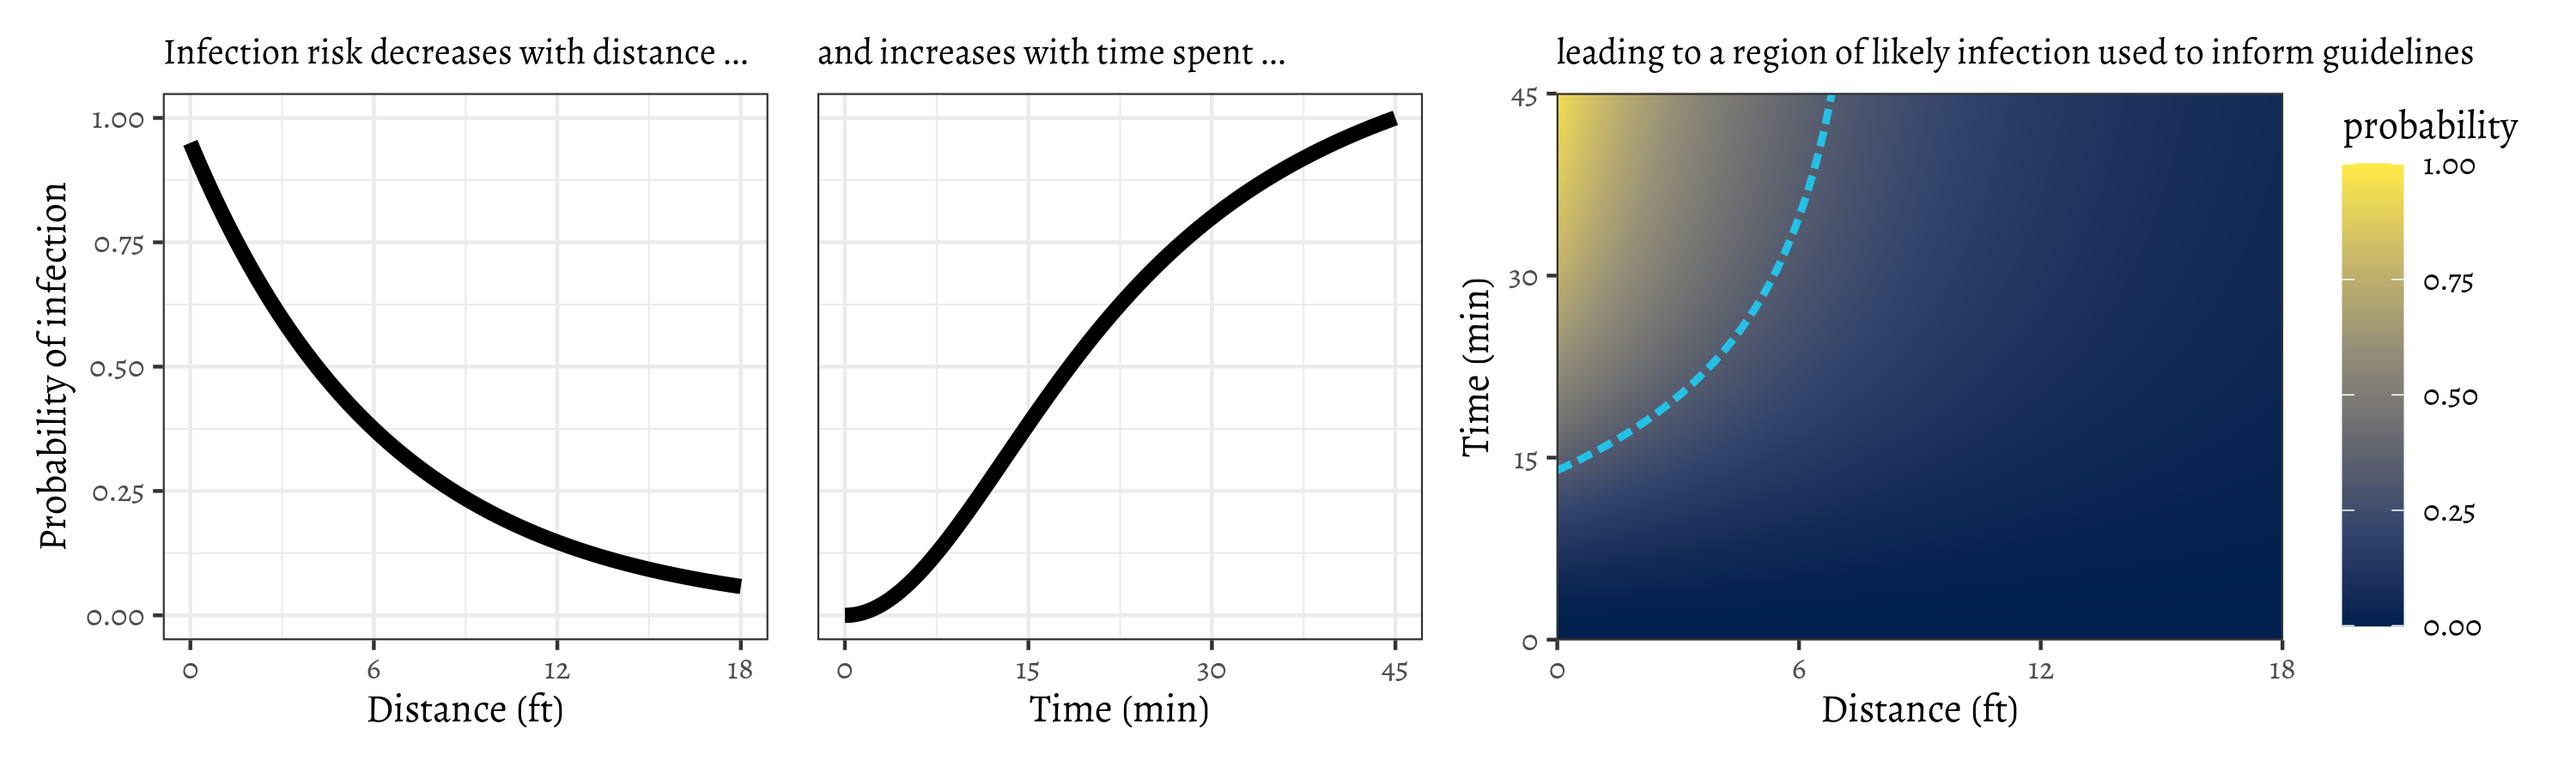
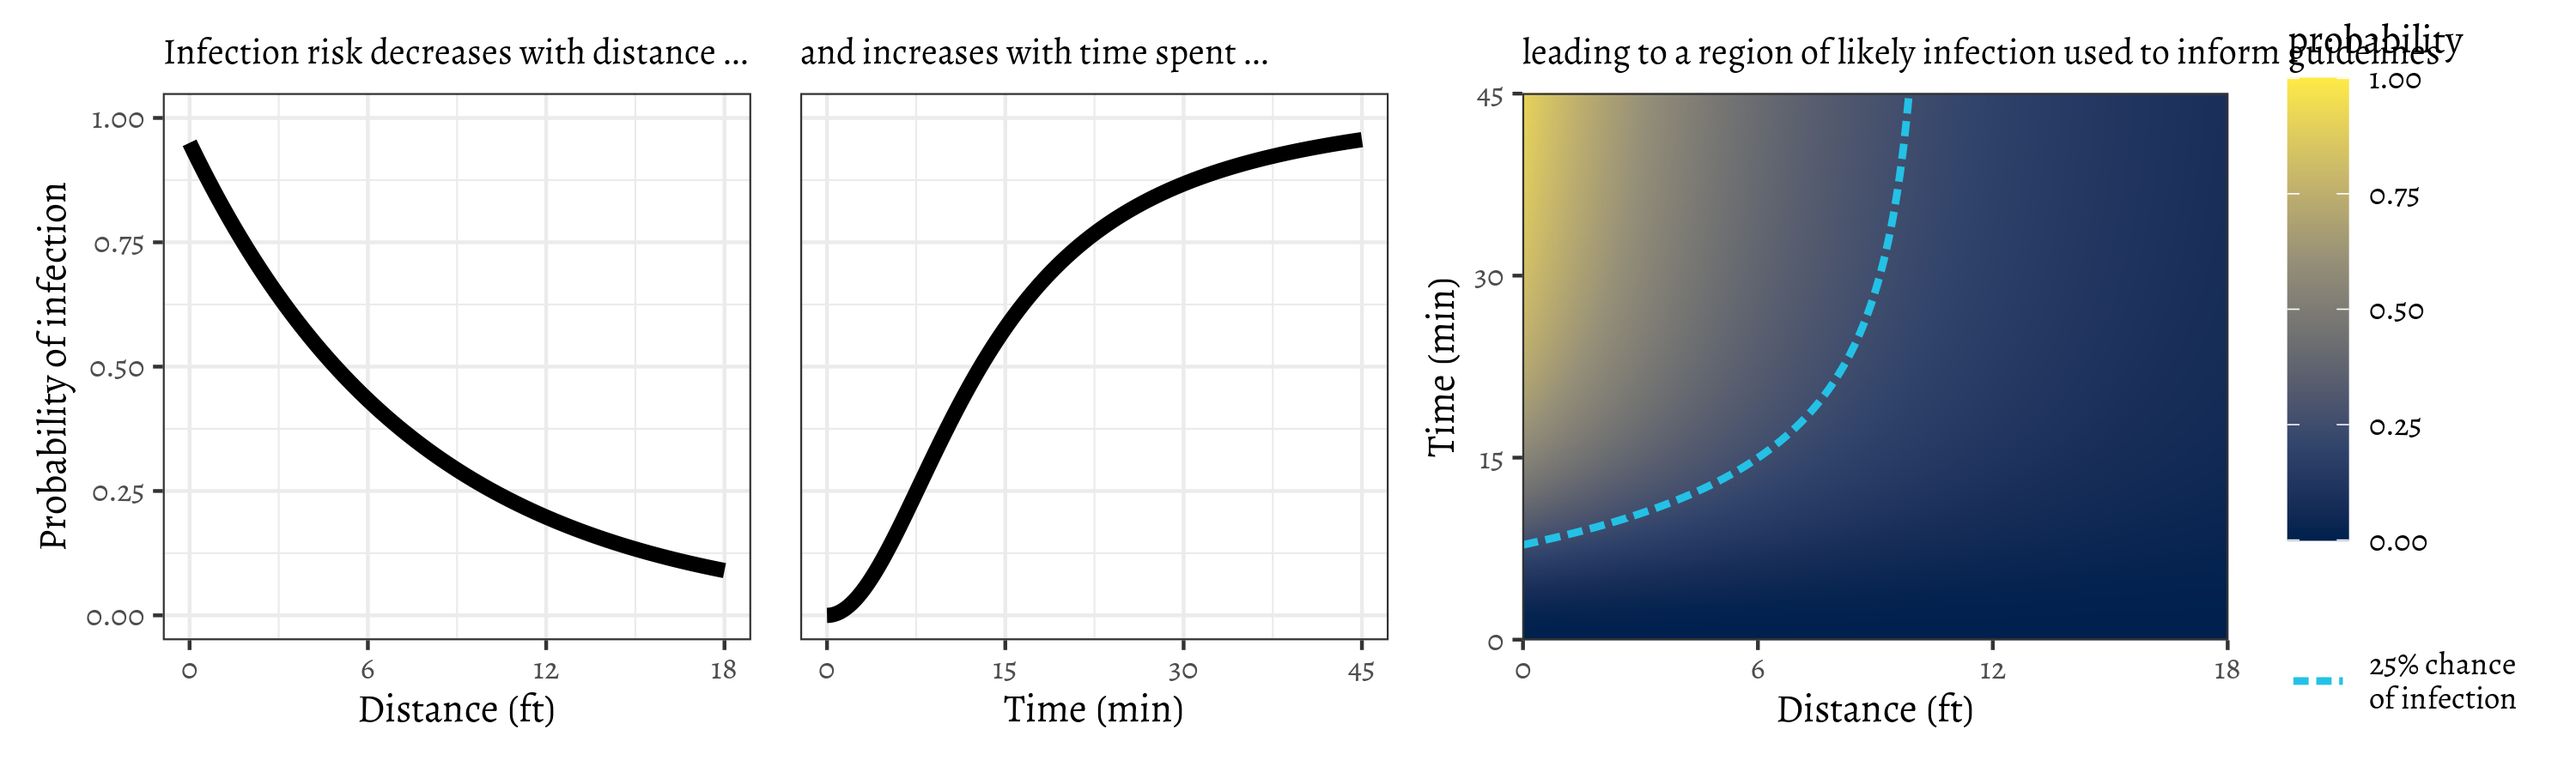
Marta Michalska-Smith's suggested improvements; updated post date

diff --git a/_posts/2021-09-14-Vaccination_Strategy.md b/_posts/2021-09-14-Vaccination_Strategy.md
@@ -2,14 +2,14 @@
 layout: post
 title: "Why vaccination strategy is not as simple as it seems"
 author: "Matthew J. Michalska-Smith"
-date: "2021-09-10"
+date: "2021-09-14"
 categories: current_events methods
 ---
 
 When vaccination just started getting underway in the U.S., many people were confused and angered at
 the fact that many localities were pursuing vaccination strategies that didn't just boil down to
 vaccinating the most vulnerable. On the other hand, there was a significant movement to vaccinate
-front-line workers that often cited equity and racial justice as motivations. What didn't seem to
+front-line workers which often cited equity and racial justice as motivations. What didn't seem to
 make the news as often is the mathematics that make this a reasonable alternative to consider.
 
 <!--more-->
@@ -51,12 +51,12 @@ sidenote-number"></label></sup><input type="checkbox" id="concept" class="margin
 class="sidenote">That is, figure not meant to represent actual data, but rather to
 help us think about a problem</span> of what these guidelines are trying to capture:
 
-![](/Images/blog_figures/vaccination_strategy/risk_distribution.png)
+[![](/Images/blog_figures/vaccination_strategy/risk_distribution.png)](/Images/blog_figures/vaccination_strategy/risk_distribution.png)
 
 Note that there is some probability of being infected in any given moment that depends on the
 distance you are from an infectious person. Similarly, the longer you are near that person, the more
 likely you are to get infected yourself. The guideline is a way of simplifying the message that, for
-example, you have a 1 in 3 chance of being infected by the time you have spent 15 minutes within 6
+example, you have a 1 in 4 chance of being infected by the time you have spent 15 minutes within 6
 feet of an infectious person (the upper-left region of the heatmap inside the blue curve).
 
 <label for="netfig" class="margin-toggle">&#8853;</label><input type="checkbox"
@@ -74,32 +74,30 @@ person's job involves a risky behavior in addition to a large number of interper
 (consider, for example, dentists, whose work involves increase exposure to aerosolized particles
 *and* interacting with many people in close contact and for extended periods of time).
 
-## An alternative to vaccinating by health status
+## An alternative: vaccinating to reduce disease spread
 
 So, how do we operationalize this network perspective? Put simply, a network view of vaccination
 suggests we should additionally consider both **exposure risk** (the risk of being infected) and
-**spread risk** (the risk of passing the pathogen along to others).
+**spread risk** (the risk of passing the pathogen along to others)<sup><label for="vaxgame"
+class="margin-toggle sidenote-number"></label></sup><input type="checkbox" id="vaxgame"
+class="margin-toggle" /><span class="sidenote">For a fun, interactive exploration of this idea,
+check out [this game](https://vax.herokuapp.com/). In it, you have a limited number of vaccines to
+distribute amongst a population to minimize the total epidemic size. It doesn't consider
+differential vulnerability, but does a good job of demonstrating the importance of contact network
+structure on the spread of disease</span>.
 
-### Countervailing consideration 1: exposure risk
-
-Thinking about differential risk of exposure across the population is complicated because it depends
-on many interacting variables, such as the likelihood of a person interacting with a sick person (note
-this depends both on the person's interpersonal interactions as well as the prevalence of disease in
-the population), the personal behavior of both people involved in the interaction, and even
-environmental features such as airflow. A person who largely stays home and minimizes their contact
-with others has a low risk of being infected by others, whereas a dentist (as mentioned above) has
-a much higher risk.
-
-### Countervailing consideration 2: spread risk
-
-A second, related, consideration is how each individual contributes to the overall risk of a disease
-spreading through a population. For this, we have to consider how each person fits within the wider
-social contact network along which communicable diseases spread. In many ways, this consideration
-overlaps with exposure risk: someone with few interpersonal interactions is unlikely to contribute
-to further disease spread even if they do happen to get sick. Yet, there are also situations where
-these become decoupled. A waiter, delivery person, or teacher, on the other hand, has both a higher
-likelihood of being infected **and of passing that infection along to others** as a result of their
-position within the contact network.
+Thinking about differential risk of exposure and spread across the population is complicated because
+it depends on many interacting variables, such as the prevalence of disease within the population,
+the personal behavior of people when they are interacting with one another, and even environmental
+features such as airflow. The factor that we are focusing on here for the sake of vaccine
+distribution, is how each person fits within the wider social contact network: a person who largely
+stays home and minimizes their contact with others has a low risk of being infected and is unlikely
+to contribute to further disease spread even if they do happen to get sick; a waiter, delivery
+person, or teacher, on the other hand, has both a higher likelihood of being infected *and of
+passing that infection along to others* as a result of their position within the contact network.
+Thus, it might make sense to prioritize these "high risk" people for vaccination, reasoning that
+reduced disease spread might result in lower morbidity and mortality in the population as a
+whole.
 
 ## But which is the better course?
 
@@ -114,25 +112,38 @@ choice, how should we be administering vaccinations in response to COVID-19?
 A recent study<sup><label for="science" class="margin-toggle sidenote-number"></label></sup><input
 type="checkbox" id="science" class="margin-toggle" /><span class="sidenote">[Bubar, et al. *Science*
 2021](https://www.science.org/doi/full/10.1126/science.abe6959)</span> looking into this question
-found that the approach of vaccinating the more vulnerable is better if your goal is to minimize
-deaths<sup><label for="cases" class="margin-toggle sidenote-number"></label></sup><input
-type="checkbox" id="cases" class="margin-toggle" /><span class="sidenote">In contrast, targeting
-younger people (who both make up a larger fraction of the population and are more likely to interact
-with others) has a greater effect on reducing the overall case-burden</span>.
-
-<label for="figinterp" class="margin-toggle sidenote-number"></label><input type="checkbox"
-class="margin-toggle" id="figinterp"/><span class="marginnote">Note that the largest reduction in
-deaths (highest curve on the right) corresponds to preferentially vaccinating the elderly.</span>
-
-<figure class="fullwidth">
-  <img style="max-width:750px; width:100%;" src="/Images/blog_figures/vaccination_strategy/modified_fig.png"/>
-  <figcaption>Modified from Figure 1 of <a href="https://www.science.org/doi/full/10.1126/science.abe6959">Bubar, et al. 2021</a>.</figcaption>
-</figure>
+for COVID-19 found that the approach of vaccinating the more vulnerable is better if your goal is to
+minimize deaths.
 
 Some subset of readers are at this point exclaiming that "of course! this was obviously going to be
 the result," and are probably wondering why they've wasted their time reading this whole
 post.<sup><label for="thanks" class="margin-toggle sidenote-number"></label></sup><input
 type="checkbox" id="thanks" class="margin-toggle" /><span class="sidenote">THANK YOU!, by the way <i
 class="fal fa-smile-beam"></i></span> It is important to remember that this didn't have to be the
-case, and indeed might not be the case for other diseases. Intuitions are not always correct, and we
-need to do the research to be confident in our choices, especially when there are lives on the line.
+case. In fact, in the same study, they found that targeting younger people (who both make up a
+larger fraction of the population and are more likely to interact with others) had a greater effect
+on reducing the overall case-burden.
+
+If we were considering another disease with a less dramatic connection between age and mortality
+rate, this reduction in overall case number might be enough to shift the mortality results to favor
+this approach as well. It is also worth mentioning that the study is only considering mortality
+directly caused by COVID-19, while there is
+[ample evidence](https://www.cdc.gov/nchs/nvss/vsrr/covid19/excess_deaths.htm) that overburdened
+health care systems have morbidity and mortality costs outside of this narrow definition: many
+people that need medical care cannot or do not get the care they need when hospitals are full of
+COVID patients, even if most of those patients will not die from the disease.
+
+<label for="figinterp" class="margin-toggle"></label><input type="checkbox" class="margin-toggle"
+id="figinterp"/><span class="marginnote">Figure modified from Figure 1 of <a
+href="https://www.science.org/doi/full/10.1126/science.abe6959">Bubar, et al. 2021</a>. Note that
+the largest reduction in deaths (highest curve in the bottom-right (**H**)) corresponds to
+preferentially vaccinating the elderly. The curves in the top-right (**D**) indicate reductions in
+total number of COVID-19 cases. For this outcome, vaccinating younger indviduals (those 20-49 years
+old) has the largest effect.</span>
+
+[![](/Images/blog_figures/vaccination_strategy/modified_fig.png)](/Images/blog_figures/vaccination_strategy/modified_fig.png)
+
+So, at least in part, the answer to which policy is better depends on your priorities, as well as a
+proper quantification of the many [externalities](https://en.wikipedia.org/wiki/Externality) of
+increased daily new COVID case counts. Intuitions are not always correct, and we need to do the
+research to be confident in our choices, especially when there are lives on the line.
